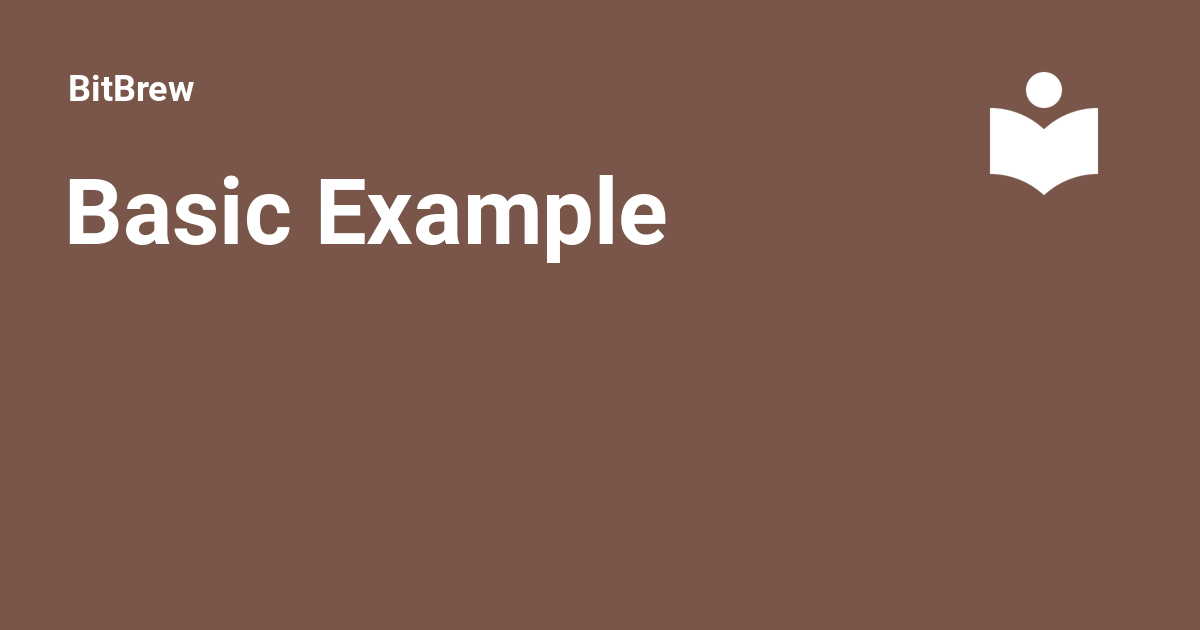
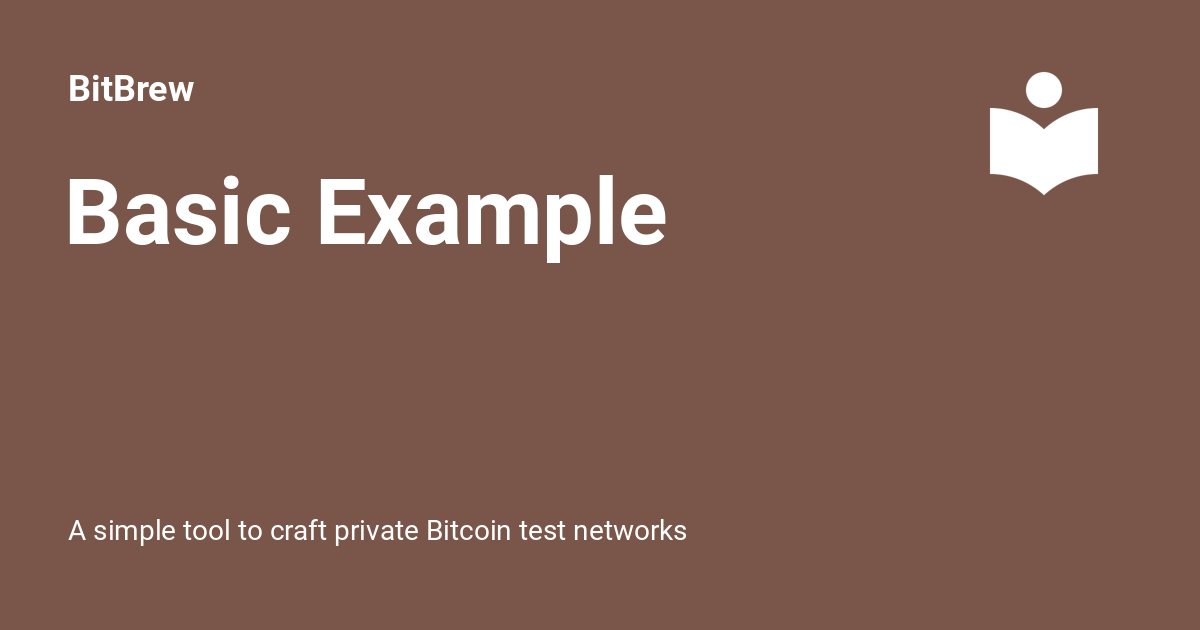
Deployed 5f2e5ae with MkDocs version: 1.6.0

Changed region(s): [[0.0617, 0.8143, 0.5858, 0.8746]]

diff --git a/user-guide/command-reference/index.html b/user-guide/command-reference/index.html
@@ -6,6 +6,8 @@
       <meta charset="utf-8">
       <meta name="viewport" content="width=device-width,initial-scale=1">
       
+        <meta name="description" content="A simple tool to craft private Bitcoin test networks">
+      
       
       
         <link rel="canonical" href="https://rishkwal.github.io/bitbrew/user-guide/command-reference/">
@@ -59,7 +61,7 @@
       
         <meta  property="og:title"  content="Command Reference - BitBrew" >
       
-        <meta  property="og:description"  content="None" >
+        <meta  property="og:description"  content="A simple tool to craft private Bitcoin test networks" >
       
         <meta  property="og:image"  content="https://rishkwal.github.io/bitbrew/assets/images/social/user-guide/command-reference.png" >
       
@@ -75,7 +77,7 @@
       
         <meta  name="twitter:title"  content="Command Reference - BitBrew" >
       
-        <meta  name="twitter:description"  content="None" >
+        <meta  name="twitter:description"  content="A simple tool to craft private Bitcoin test networks" >
       
         <meta  name="twitter:image"  content="https://rishkwal.github.io/bitbrew/assets/images/social/user-guide/command-reference.png" >
       

diff --git a/user-guide/basic-concepts/index.html b/user-guide/basic-concepts/index.html
@@ -6,6 +6,8 @@
       <meta charset="utf-8">
       <meta name="viewport" content="width=device-width,initial-scale=1">
       
+        <meta name="description" content="A simple tool to craft private Bitcoin test networks">
+      
       
       
         <link rel="canonical" href="https://rishkwal.github.io/bitbrew/user-guide/basic-concepts/">
@@ -59,7 +61,7 @@
       
         <meta  property="og:title"  content="Basic Concepts - BitBrew" >
       
-        <meta  property="og:description"  content="None" >
+        <meta  property="og:description"  content="A simple tool to craft private Bitcoin test networks" >
       
         <meta  property="og:image"  content="https://rishkwal.github.io/bitbrew/assets/images/social/user-guide/basic-concepts.png" >
       
@@ -75,7 +77,7 @@
       
         <meta  name="twitter:title"  content="Basic Concepts - BitBrew" >
       
-        <meta  name="twitter:description"  content="None" >
+        <meta  name="twitter:description"  content="A simple tool to craft private Bitcoin test networks" >
       
         <meta  name="twitter:image"  content="https://rishkwal.github.io/bitbrew/assets/images/social/user-guide/basic-concepts.png" >
       

diff --git a/examples/basic-usage/index.html b/examples/basic-usage/index.html
@@ -6,6 +6,8 @@
       <meta charset="utf-8">
       <meta name="viewport" content="width=device-width,initial-scale=1">
       
+        <meta name="description" content="A simple tool to craft private Bitcoin test networks">
+      
       
       
         <link rel="canonical" href="https://rishkwal.github.io/bitbrew/examples/basic-usage/">
@@ -57,7 +59,7 @@
       
         <meta  property="og:title"  content="Basic Example - BitBrew" >
       
-        <meta  property="og:description"  content="None" >
+        <meta  property="og:description"  content="A simple tool to craft private Bitcoin test networks" >
       
         <meta  property="og:image"  content="https://rishkwal.github.io/bitbrew/assets/images/social/examples/basic-usage.png" >
       
@@ -73,7 +75,7 @@
       
         <meta  name="twitter:title"  content="Basic Example - BitBrew" >
       
-        <meta  name="twitter:description"  content="None" >
+        <meta  name="twitter:description"  content="A simple tool to craft private Bitcoin test networks" >
       
         <meta  name="twitter:image"  content="https://rishkwal.github.io/bitbrew/assets/images/social/examples/basic-usage.png" >
       

diff --git a/getting-started/index.html b/getting-started/index.html
@@ -6,6 +6,8 @@
       <meta charset="utf-8">
       <meta name="viewport" content="width=device-width,initial-scale=1">
       
+        <meta name="description" content="A simple tool to craft private Bitcoin test networks">
+      
       
       
         <link rel="canonical" href="https://rishkwal.github.io/bitbrew/getting-started/">
@@ -59,7 +61,7 @@
       
         <meta  property="og:title"  content="Getting Started - BitBrew" >
       
-        <meta  property="og:description"  content="None" >
+        <meta  property="og:description"  content="A simple tool to craft private Bitcoin test networks" >
       
         <meta  property="og:image"  content="https://rishkwal.github.io/bitbrew/assets/images/social/getting-started.png" >
       
@@ -75,7 +77,7 @@
       
         <meta  name="twitter:title"  content="Getting Started - BitBrew" >
       
-        <meta  name="twitter:description"  content="None" >
+        <meta  name="twitter:description"  content="A simple tool to craft private Bitcoin test networks" >
       
         <meta  name="twitter:image"  content="https://rishkwal.github.io/bitbrew/assets/images/social/getting-started.png" >
       

diff --git a/roadmap/index.html b/roadmap/index.html
@@ -6,6 +6,8 @@
       <meta charset="utf-8">
       <meta name="viewport" content="width=device-width,initial-scale=1">
       
+        <meta name="description" content="A simple tool to craft private Bitcoin test networks">
+      
       
       
         <link rel="canonical" href="https://rishkwal.github.io/bitbrew/roadmap/">
@@ -59,7 +61,7 @@
       
         <meta  property="og:title"  content="Roadmap - BitBrew" >
       
-        <meta  property="og:description"  content="None" >
+        <meta  property="og:description"  content="A simple tool to craft private Bitcoin test networks" >
       
         <meta  property="og:image"  content="https://rishkwal.github.io/bitbrew/assets/images/social/roadmap.png" >
       
@@ -75,7 +77,7 @@
       
         <meta  name="twitter:title"  content="Roadmap - BitBrew" >
       
-        <meta  name="twitter:description"  content="None" >
+        <meta  name="twitter:description"  content="A simple tool to craft private Bitcoin test networks" >
       
         <meta  name="twitter:image"  content="https://rishkwal.github.io/bitbrew/assets/images/social/roadmap.png" >
       

diff --git a/index.html b/index.html
@@ -6,6 +6,8 @@
       <meta charset="utf-8">
       <meta name="viewport" content="width=device-width,initial-scale=1">
       
+        <meta name="description" content="A simple tool to craft private Bitcoin test networks">
+      
       
       
         <link rel="canonical" href="https://rishkwal.github.io/bitbrew/">
@@ -57,7 +59,7 @@
       
         <meta  property="og:title"  content="Introduction" >
       
-        <meta  property="og:description"  content="None" >
+        <meta  property="og:description"  content="A simple tool to craft private Bitcoin test networks" >
       
         <meta  property="og:image"  content="https://rishkwal.github.io/bitbrew/assets/images/social/index.png" >
       
@@ -73,7 +75,7 @@
       
         <meta  name="twitter:title"  content="Introduction" >
       
-        <meta  name="twitter:description"  content="None" >
+        <meta  name="twitter:description"  content="A simple tool to craft private Bitcoin test networks" >
       
         <meta  name="twitter:image"  content="https://rishkwal.github.io/bitbrew/assets/images/social/index.png" >
       

diff --git a/404.html b/404.html
@@ -6,6 +6,8 @@
       <meta charset="utf-8">
       <meta name="viewport" content="width=device-width,initial-scale=1">
       
+        <meta name="description" content="A simple tool to craft private Bitcoin test networks">
+      
       
       
       
